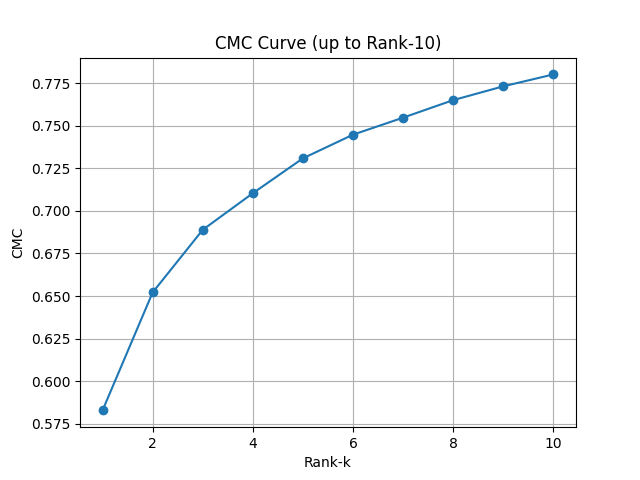
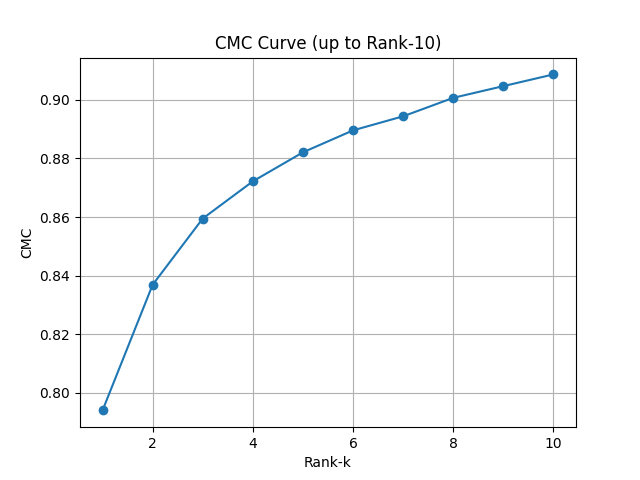
Updated minimal dinov3 baseline to use dinov3-vitl16

diff --git a/minimal_dinov3.py b/minimal_dinov3.py
@@ -1,3 +1,18 @@
+"""
+Minimal DINOv3 implementation for inference on PetFace dog re-identification
+    Feature extraction using DINOv3 model from Hugging Face.
+    Functionality to load image paths and labels from CSV files.
+    Cosine similarity for ranking gallery images based on query features.
+    Model performance using Top-1, Top-5, and Top-10 accuracy metrics.
+    mAP calculation using custom evaluation function.
+    CMC curve plot for visualizing retrieval performance.
+Results
+    Top-1: 0.7941
+    Top-5: 0.8821
+    Top-10: 0.9087
+    mAP: 0.7631
+"""
+
 # Imports
 import random
 import torch
@@ -14,7 +29,7 @@ from utils.metrics import eval_func, euclidean_distance
 
 # Settings
 os.environ["CUDA_VISIBLE_DEVICES"] = "2"  # Set to preferred GPU
-MODEL_ID = "facebook/dinov3-convnext-base-pretrain-lvd1689m"
+MODEL_ID = "facebook/dinov3-vitl16-pretrain-lvd1689m"
 IMAGES_ROOT = "petface/dog"
 GALLERY_CSV = "splits_petface_test_10k/test_gallery.csv"
 QUERY_CSV = "splits_petface_test_10k/test_query.csv"
